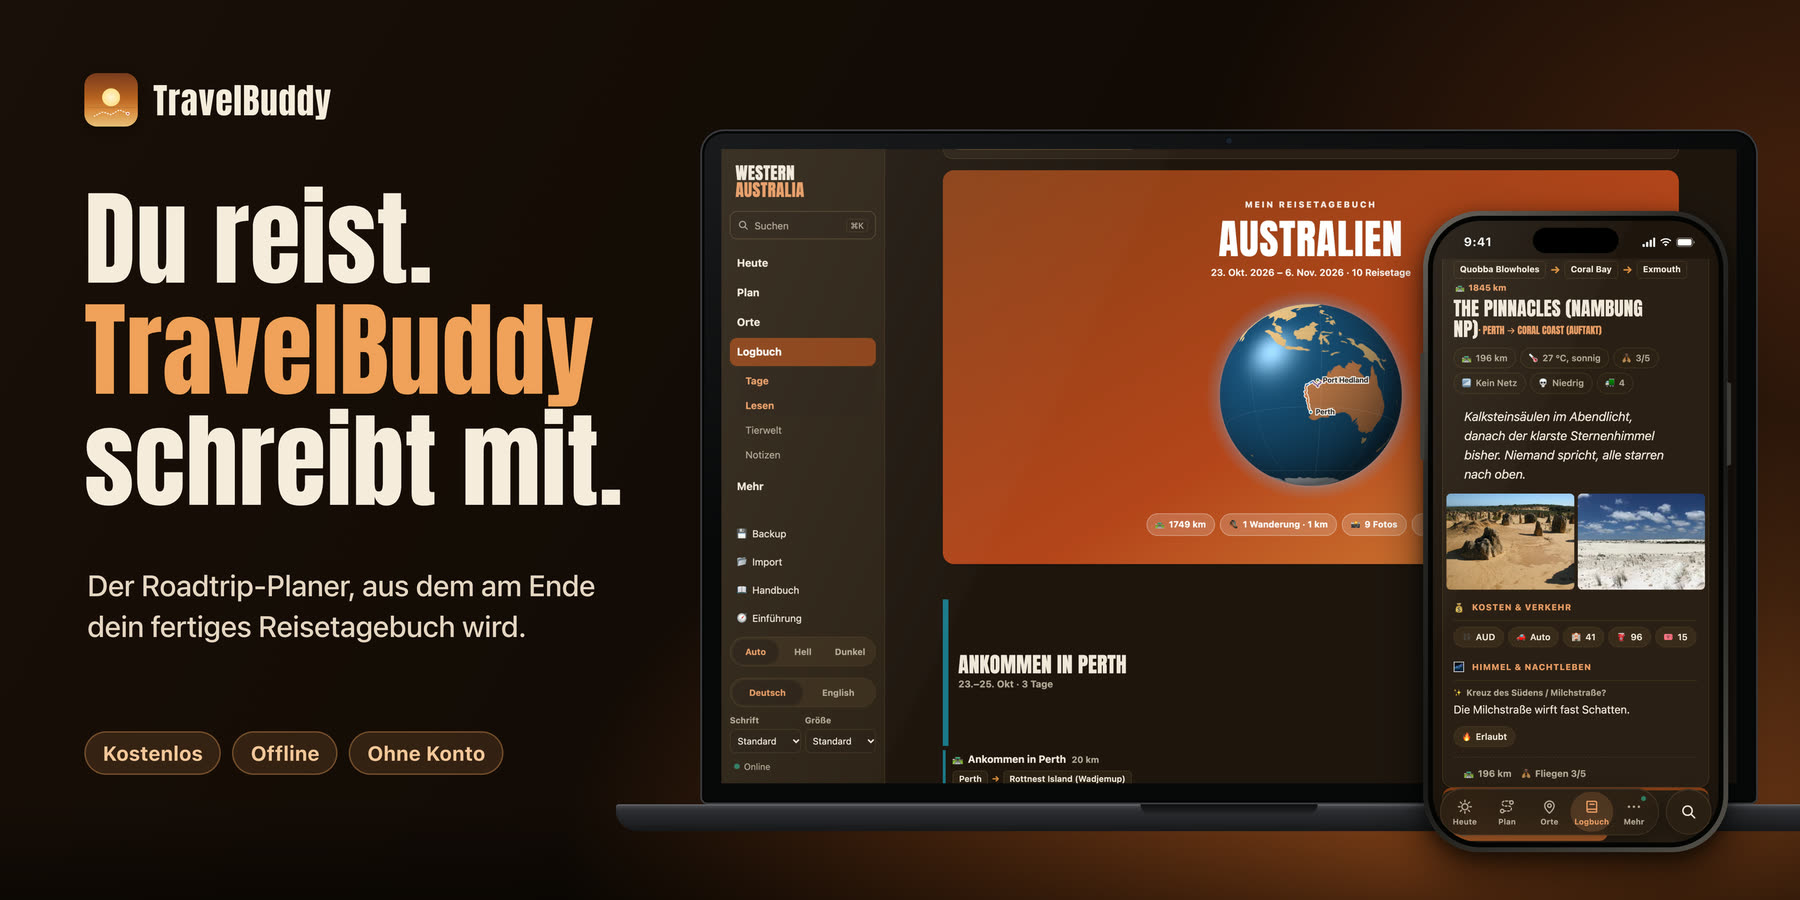
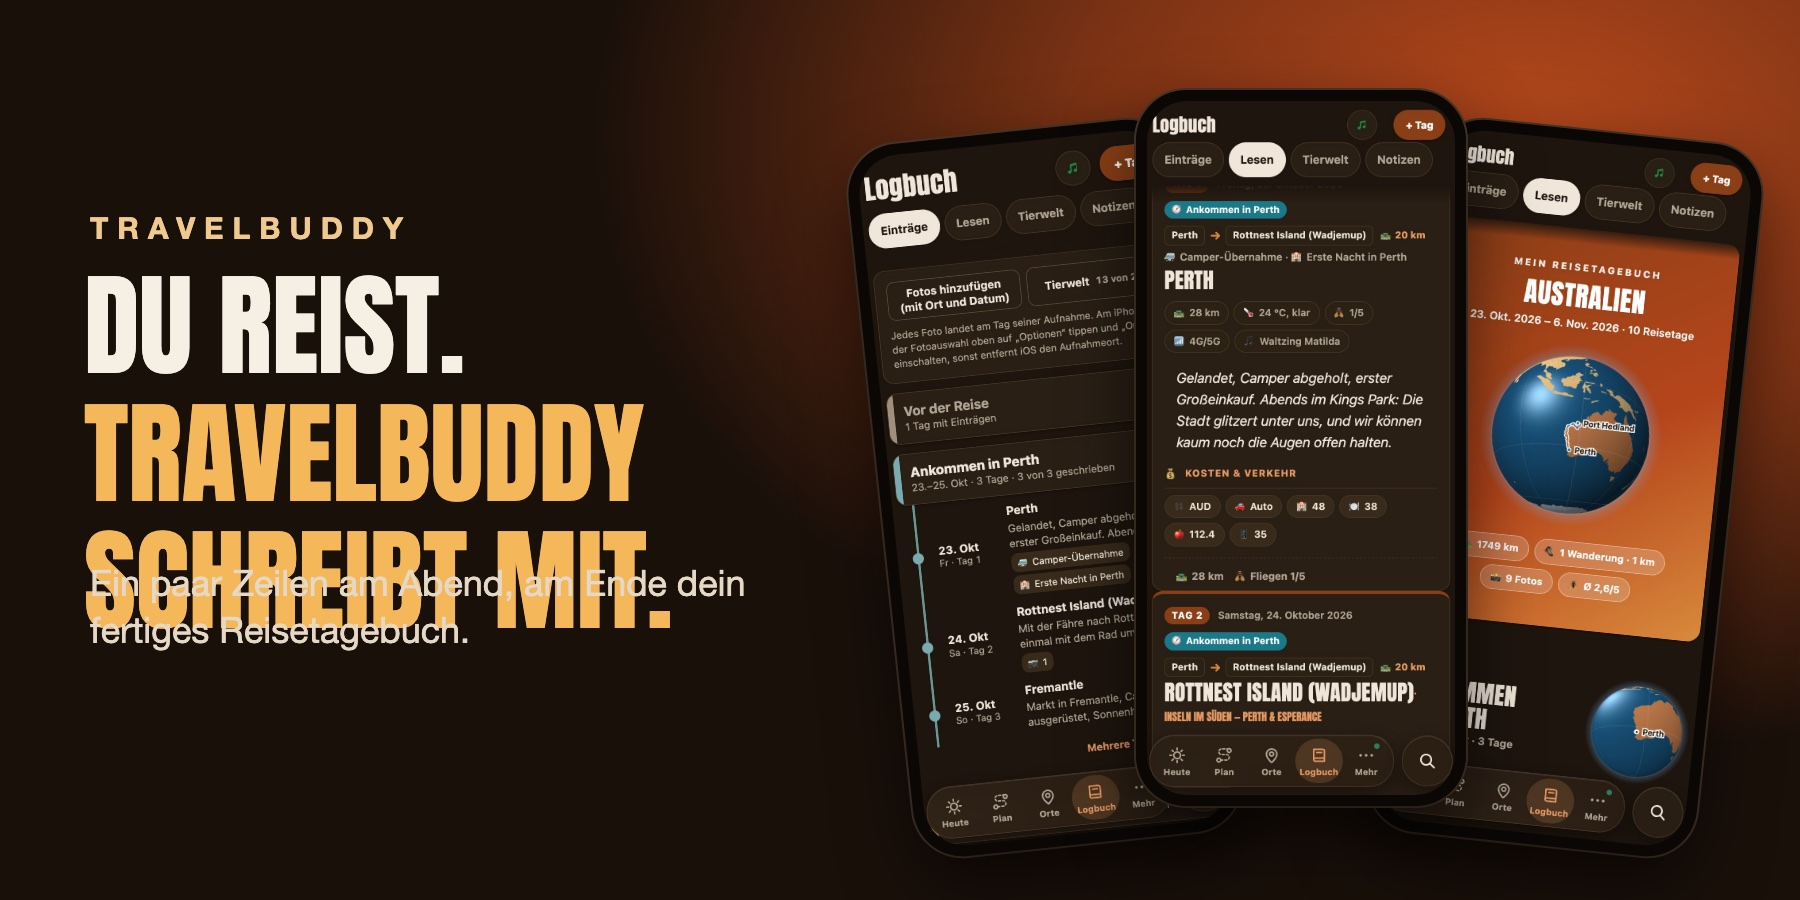
README: neuer Einstieg, Galerie und Bilder im aktuellen Design

diff --git a/README.md b/README.md
@@ -2,7 +2,7 @@
 
 # TravelBuddy
 
-### The road trip companion for the stretches where the signal ends.
+### One app. The whole road trip. Even where the signal ends.
 
 Plan it, drive it, remember it. On iPhone, Mac, Windows and Linux, fully offline, no account, no cloud.<br>
 **One app for the whole trip. It does it all.**<br>
@@ -21,7 +21,7 @@ Plan it, drive it, remember it. On iPhone, Mac, Windows and Linux, fully offline
 
 <br>
 
-<img src="bilder/en/titel-kein-netz.jpg" alt="TravelBuddy on MacBook and iPhone. No signal. No account. No problem." width="900">
+<img src="bilder/en/titel-eine-app.jpg" alt="One app. The whole trip." width="900">
 
 </div>
 
@@ -43,6 +43,21 @@ Plan it, drive it, remember it. On iPhone, Mac, Windows and Linux, fully offline
 No account, nothing to install from a store, and your data stays on your phone. On a computer, the link works straight away.
 
 </td>
+</tr>
+</table>
+
+---
+
+<table>
+<tr>
+<td align="center"><img src="bilder/en/iphone-heute.jpg" width="240" alt="Today"><br><b>Today</b></td>
+<td align="center"><img src="bilder/en/iphone-karte.jpg" width="240" alt="Offline map"><br><b>Offline map</b></td>
+<td align="center"><img src="bilder/en/iphone-orte.jpg" width="240" alt="Places"><br><b>Places</b></td>
+</tr>
+<tr>
+<td align="center"><img src="bilder/en/iphone-tagebuch.jpg" width="240" alt="Your journal"><br><b>Your journal</b></td>
+<td align="center"><img src="bilder/en/iphone-tag.jpg" width="240" alt="Every day told"><br><b>Every day told</b></td>
+<td align="center"><img src="bilder/en/iphone-fotolage.jpg" width="240" alt="Photo conditions"><br><b>Photo conditions</b></td>
 </tr>
 </table>
 
@@ -180,7 +195,7 @@ Every evening you note a few lines, add your photos, tap in the kilometres and t
 
 ## 🚀 Everything TravelBuddy can do
 
-<div align="center"><img src="bilder/en/titel-eine-app.jpg" alt="Your whole trip. One app." width="900"></div>
+<div align="center"><img src="bilder/en/titel-kein-netz.jpg" alt="No signal. No account. No problem." width="900"></div>
 
 **One app for the whole trip, from the first idea to the last memory. It really does it all.**
 
@@ -343,7 +358,7 @@ The first time you open TravelBuddy, a setup assistant walks you through eight s
 </table>
 
 <div align="center">
-<img src="bilder/en/mac-route.jpg" width="760" alt="Route on the Mac">
+<img src="bilder/en/mac-karte.jpg" width="760" alt="Offline map on the Mac">
 <br><sub>Route with stops on the Mac</sub>
 </div>
 
@@ -676,7 +691,7 @@ Planen, fahren, festhalten. Auf iPhone, Mac, Windows und Linux, komplett offline
 
 <br>
 
-<img src="bilder/de/titel-kein-netz.jpg" alt="TravelBuddy auf MacBook und iPhone. Kein Netz. Kein Konto. Kein Problem." width="900">
+<img src="bilder/de/titel-eine-app.jpg" alt="Eine App. Die ganze Reise." width="900">
 
 </div>
 
@@ -698,6 +713,21 @@ Kein Konto, kein App Store, und deine Daten bleiben auf deinem Handy. Am Compute
 </td>
 </tr>
 </table>
+
+<table>
+<tr>
+<td align="center"><img src="bilder/de/iphone-heute.jpg" width="240" alt="Heute"><br><b>Heute</b></td>
+<td align="center"><img src="bilder/de/iphone-karte.jpg" width="240" alt="Offline-Karte"><br><b>Offline-Karte</b></td>
+<td align="center"><img src="bilder/de/iphone-orte.jpg" width="240" alt="Orte"><br><b>Orte</b></td>
+</tr>
+<tr>
+<td align="center"><img src="bilder/de/iphone-tagebuch.jpg" width="240" alt="Dein Tagebuch"><br><b>Dein Tagebuch</b></td>
+<td align="center"><img src="bilder/de/iphone-tag.jpg" width="240" alt="Jeder Tag erzählt"><br><b>Jeder Tag erzählt</b></td>
+<td align="center"><img src="bilder/de/iphone-fotolage.jpg" width="240" alt="Fotolage"><br><b>Fotolage</b></td>
+</tr>
+</table>
+
+---
 
 ## 📸 Neu in Version 1.8
 
@@ -821,7 +851,7 @@ Jeden Abend ein paar Zeilen, deine Fotos, die Kilometer und die Tiere, die du ge
 
 ## 🚀 Alles, was TravelBuddy kann
 
-<div align="center"><img src="bilder/de/titel-eine-app.jpg" alt="Deine ganze Reise. Eine App." width="900"></div>
+<div align="center"><img src="bilder/de/titel-kein-netz.jpg" alt="Kein Netz. Kein Konto. Kein Problem." width="900"></div>
 
 **Eine App für die ganze Reise, von der ersten Idee bis zur letzten Erinnerung. Sie kann wirklich alles.**
 
@@ -982,7 +1012,7 @@ Beim ersten Öffnen führt dich ein Einrichtungsassistent in acht kurzen Schritt
 </table>
 
 <div align="center">
-<img src="bilder/de/mac-route.jpg" width="760" alt="Route auf dem Mac">
+<img src="bilder/de/mac-karte.jpg" width="760" alt="Offline-Karte auf dem Mac">
 <br><sub>Route mit Stopps auf dem Mac</sub>
 </div>
 
